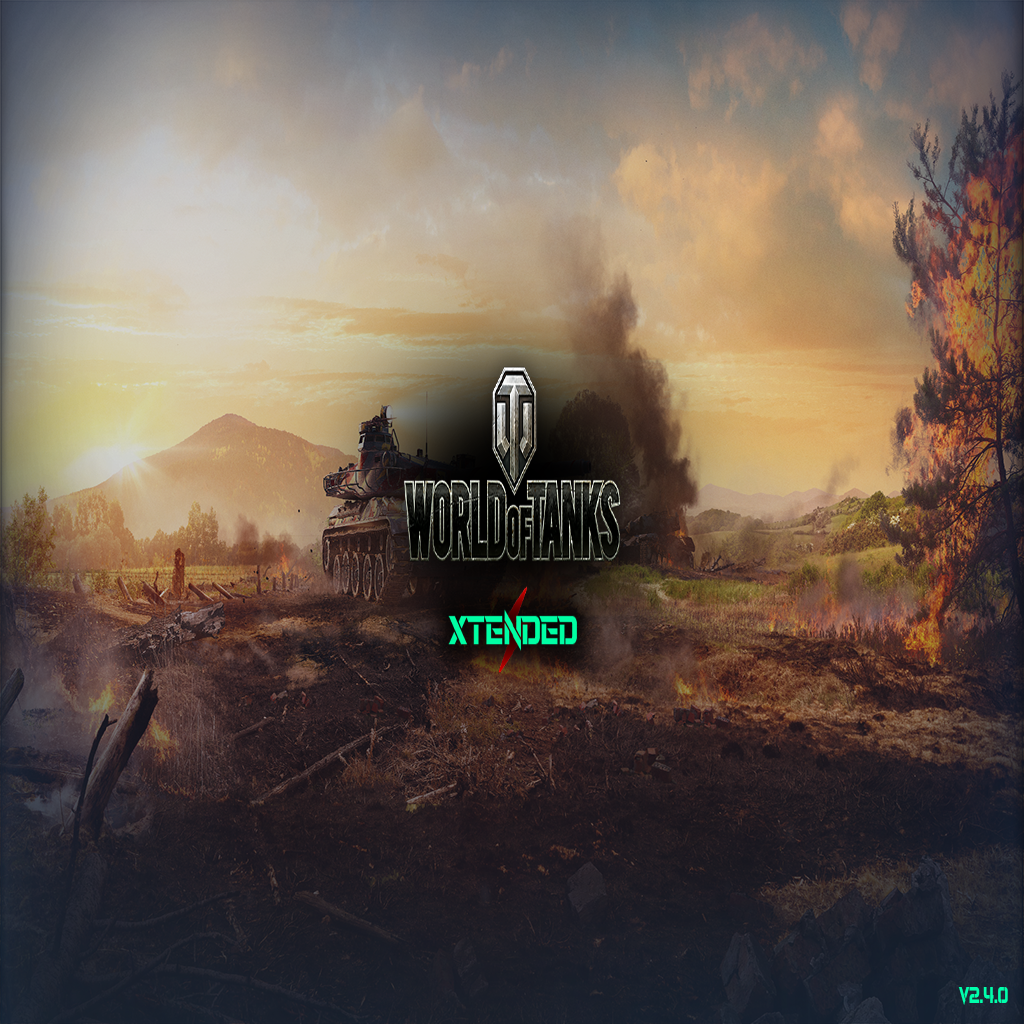
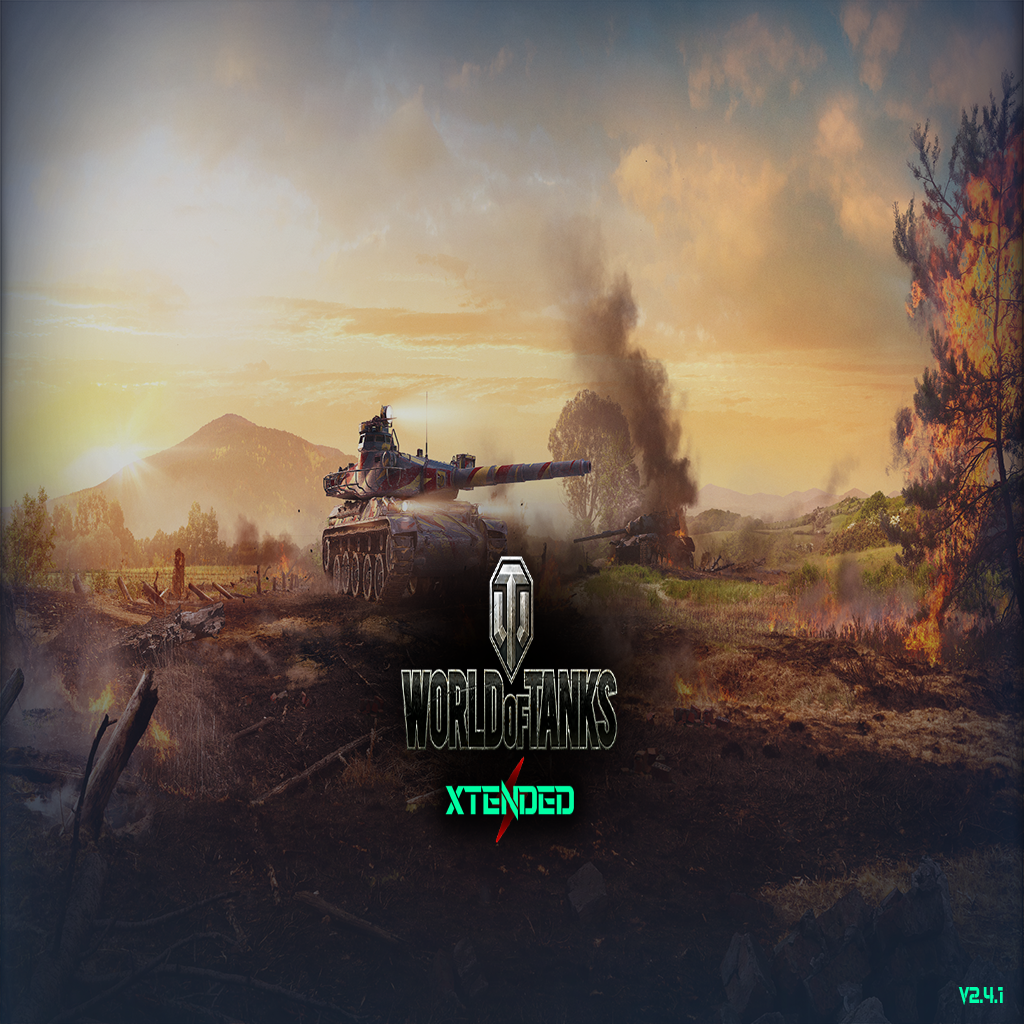
keyart 2.4.1

Changed region(s): [[0.3125, 0.2812, 0.6875, 0.8125]]

diff --git a/build.md b/build.md
@@ -1,7 +1,7 @@
-21
+22
 
 v2.4.0-main
 
-28 July 2023 04:34:08
+28 July 2023 06:29:13
 
 

diff --git a/version.md b/version.md
@@ -1,1 +1,1 @@
-v2.4.0-main
+v2.4.1-main
